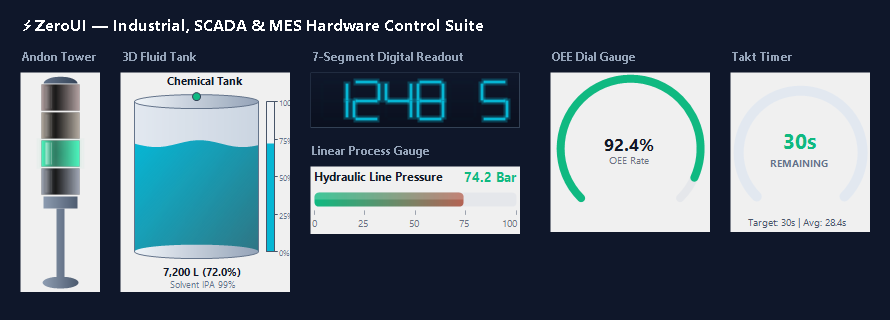
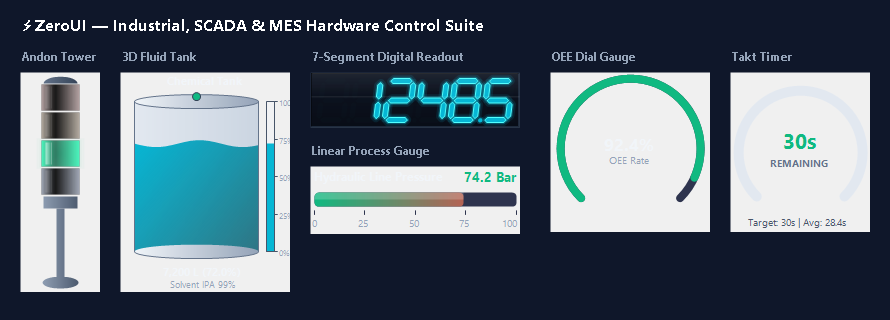
docs: capture high-resolution SCADA closed-loop simulation screenshots and enrich README showcase

diff --git a/src/ZeroUI.Samples.BenchmarkDemo/Program.cs b/src/ZeroUI.Samples.BenchmarkDemo/Program.cs
@@ -423,53 +423,53 @@ namespace ZeroUI.Samples.BenchmarkDemo
                     SaveFormBitmap(form, Path.Combine(outputDir, "01_zerogrid_benchmark.png"));
                     Console.WriteLine("   [OK] Captured 01_zerogrid_benchmark.png");
 
-                    // Tab 2: Components Showcase
-                    form.SelectTabByIndex(2);
-                    Application.DoEvents();
-                    System.Threading.Thread.Sleep(200);
-                    SaveFormBitmap(form, Path.Combine(outputDir, "02_components_showcase.png"));
-                    Console.WriteLine("   [OK] Captured 02_components_showcase.png");
-
-                    // Tab 3: MES Production Dashboard
-                    form.SelectTabByIndex(3);
+                    // Tab 1: MES Production Dashboard
+                    form.SelectTabByIndex(1);
                     Application.DoEvents();
                     System.Threading.Thread.Sleep(200);
                     SaveFormBitmap(form, Path.Combine(outputDir, "03_mes_production_dashboard.png"));
                     Console.WriteLine("   [OK] Captured 03_mes_production_dashboard.png");
 
-                    // Tab 4: SCADA & Smart Factory Hub
-                    form.SelectTabByIndex(4);
-                    Application.DoEvents();
-                    System.Threading.Thread.Sleep(200);
-                    SaveFormBitmap(form, Path.Combine(outputDir, "04_scada_smart_factory.png"));
-                    Console.WriteLine("   [OK] Captured 04_scada_smart_factory.png");
-
-                    // Tab 5: WMS Center
-                    form.SelectTabByIndex(5);
+                    // Tab 2: WMS Center & Warehouse Racks
+                    form.SelectTabByIndex(2);
                     Application.DoEvents();
                     System.Threading.Thread.Sleep(200);
                     SaveFormBitmap(form, Path.Combine(outputDir, "05_wms_warehouse_rack.png"));
                     Console.WriteLine("   [OK] Captured 05_wms_warehouse_rack.png");
 
-                    // Tab 6: Advanced Enterprise Suite (TreeList & Heatmap)
-                    form.SelectTabByIndex(6);
+                    // Tab 3: SCADA & Smart Factory Hub
+                    form.SelectTabByIndex(3);
                     Application.DoEvents();
                     System.Threading.Thread.Sleep(200);
-                    SaveFormBitmap(form, Path.Combine(outputDir, "06_advanced_treelist_heatmap.png"));
-                    Console.WriteLine("   [OK] Captured 06_advanced_treelist_heatmap.png");
+                    SaveFormBitmap(form, Path.Combine(outputDir, "04_scada_smart_factory.png"));
+                    Console.WriteLine("   [OK] Captured 04_scada_smart_factory.png");
 
-                    // Tab 7: Analytics & Business Charts
-                    form.SelectTabByIndex(7);
+                    // Tab 4: SCADA Process Synoptic & Closed-Loop Simulation
+                    form.SelectTabByIndex(4);
+                    Application.DoEvents();
+                    System.Threading.Thread.Sleep(400);
+                    SaveFormBitmap(form, Path.Combine(outputDir, "12_scada_closed_loop_simulation.png"));
+                    Console.WriteLine("   [OK] Captured 12_scada_closed_loop_simulation.png");
+
+                    // Tab 5: Analytics & Business Charts
+                    form.SelectTabByIndex(5);
                     Application.DoEvents();
                     System.Threading.Thread.Sleep(200);
                     SaveFormBitmap(form, Path.Combine(outputDir, "10_business_charts_dashboard.png"));
                     Console.WriteLine("   [OK] Captured 10_business_charts_dashboard.png");
 
-                    // Obsidian Dark Theme SCADA
+                    // Tab 6: UI Component Catalog
+                    form.SelectTabByIndex(6);
+                    Application.DoEvents();
+                    System.Threading.Thread.Sleep(200);
+                    SaveFormBitmap(form, Path.Combine(outputDir, "02_components_showcase.png"));
+                    Console.WriteLine("   [OK] Captured 02_components_showcase.png");
+
+                    // Obsidian Dark Theme SCADA Closed Loop
                     form.ToggleThemePublic();
                     form.SelectTabByIndex(4); // SCADA looks striking in Dark Mode
                     Application.DoEvents();
-                    System.Threading.Thread.Sleep(300);
+                    System.Threading.Thread.Sleep(400);
                     SaveFormBitmap(form, Path.Combine(outputDir, "08_dark_theme_scada.png"));
                     Console.WriteLine("   [OK] Captured 08_dark_theme_scada.png");
 
@@ -488,6 +488,10 @@ namespace ZeroUI.Samples.BenchmarkDemo
                 // 4. Capture Business Analytics & Chart Suite Composite
                 CaptureChartsHeroShowcase(Path.Combine(outputDir, "11_charts_hero_showcase.png"));
                 Console.WriteLine("   [OK] Captured 11_charts_hero_showcase.png");
+
+                // 5. Capture SCADA Field Actuators, Sensors & HMI Safety Controls Composite
+                CaptureScadaIndustrialActuatorsComposite(Path.Combine(outputDir, "13_scada_actuators_composite.png"));
+                Console.WriteLine("   [OK] Captured 13_scada_actuators_composite.png");
 
                 Console.WriteLine("\n🎉 ALL README SCREENSHOTS CAPTURED SUCCESSFULLY!");
             }
@@ -745,6 +749,171 @@ namespace ZeroUI.Samples.BenchmarkDemo
                     g.DrawImage(bmp, 760, 72);
                 }
                 splineChart.Dispose();
+            }
+
+            compBmp.Save(path, System.Drawing.Imaging.ImageFormat.Png);
+        }
+
+        private static void CaptureScadaIndustrialActuatorsComposite(string path)
+        {
+            int compW = 1100;
+            int compH = 430;
+
+            using var compBmp = new Bitmap(compW, compH);
+            using (var g = Graphics.FromImage(compBmp))
+            {
+                g.Clear(Color.FromArgb(15, 23, 42)); // Industrial Slate 900
+                g.SmoothingMode = System.Drawing.Drawing2D.SmoothingMode.AntiAlias;
+
+                using var titleFont = new Font("Segoe UI", 12f, FontStyle.Bold);
+                using var capFont = new Font("Segoe UI", 9f, FontStyle.Bold);
+                using var titleBrush = new SolidBrush(Color.White);
+                using var capBrush = new SolidBrush(Color.FromArgb(148, 163, 184));
+
+                g.DrawString("⚡ ZeroUI — Industrial SCADA Field Actuators, Smart Sensors & HMI Safety Controls", titleFont, titleBrush, 20, 14);
+
+                // Row 1: Pneumatic Cylinder, Conveyor Belt, Sensor, Scoreboard, Interlock, Command Button
+                // 1. ZeroPneumaticCylinder
+                var cyl = new ZeroPneumaticCylinder { Size = new Size(190, 80), ExtensionPercent = 70.0, TagLabel = "CYL-301 DOSING", State = CylinderState.Moving };
+                cyl.CreateControl();
+                using (var bmp = new Bitmap(190, 80))
+                {
+                    cyl.DrawToBitmap(bmp, new Rectangle(0, 0, 190, 80));
+                    g.DrawString("Pneumatic Cylinder", capFont, capBrush, 20, 48);
+                    g.DrawImage(bmp, 20, 72);
+                }
+                cyl.Dispose();
+
+                // 2. ZeroConveyorBelt
+                var cv = new ZeroConveyorBelt { Size = new Size(220, 85), SpeedMpm = 28.0, TagLabel = "CV-401 PACK LINE", State = ConveyorState.Running };
+                cv.CreateControl();
+                using (var bmp = new Bitmap(220, 85))
+                {
+                    cv.DrawToBitmap(bmp, new Rectangle(0, 0, 220, 85));
+                    g.DrawString("Conveyor Belt", capFont, capBrush, 230, 48);
+                    g.DrawImage(bmp, 230, 70);
+                }
+                cv.Dispose();
+
+                // 3. ZeroIndustrialSensor
+                var sensor = new ZeroIndustrialSensor { Size = new Size(75, 75), TagLabel = "PE-401", SensorType = SensorType.Photoelectric, State = SensorState.Active };
+                sensor.CreateControl();
+                using (var bmp = new Bitmap(75, 75))
+                {
+                    sensor.DrawToBitmap(bmp, new Rectangle(0, 0, 75, 75));
+                    g.DrawString("Optical Sensor", capFont, capBrush, 470, 48);
+                    g.DrawImage(bmp, 470, 72);
+                }
+                sensor.Dispose();
+
+                // 4. ZeroProductionCounter
+                var counter = new ZeroProductionCounter { Size = new Size(260, 95), Title = "SHIFT PRODUCTION TARGET", Plan = 5000, Actual = 4320, NG = 14 };
+                counter.CreateControl();
+                using (var bmp = new Bitmap(260, 95))
+                {
+                    counter.DrawToBitmap(bmp, new Rectangle(0, 0, 260, 95));
+                    g.DrawString("Production Counter", capFont, capBrush, 565, 48);
+                    g.DrawImage(bmp, 565, 68);
+                }
+                counter.Dispose();
+
+                // 5. ZeroInterlockIndicator & ZeroCommandButton
+                var interlock = new ZeroInterlockIndicator { Size = new Size(185, 42), TagLabel = "SAFETY PERMISSIVE" };
+                interlock.CreateControl();
+                using (var bmp = new Bitmap(185, 42))
+                {
+                    interlock.DrawToBitmap(bmp, new Rectangle(0, 0, 185, 42));
+                    g.DrawString("Safety Permissive", capFont, capBrush, 850, 48);
+                    g.DrawImage(bmp, 850, 68);
+                }
+                interlock.Dispose();
+
+                var cmdBtn = new ZeroCommandButton { Size = new Size(185, 42), Action = CommandButtonAction.Start, CommandText = "START BATCH", PressAndHoldSeconds = 0.5f };
+                cmdBtn.CreateControl();
+                using (var bmp = new Bitmap(185, 42))
+                {
+                    cmdBtn.DrawToBitmap(bmp, new Rectangle(0, 0, 185, 42));
+                    g.DrawImage(bmp, 850, 116);
+                }
+                cmdBtn.Dispose();
+
+                // Row 2: Motor, Pump, Valve, Heater, Fan, Digital Indicator, Gauge
+                // 6. ZeroIndustrialMotor
+                var motor = new ZeroIndustrialMotor { Size = new Size(125, 76), TagLabel = "M-201 AGITATOR", SpeedRpm = 1450.0, State = ZeroMotorState.Running };
+                motor.CreateControl();
+                using (var bmp = new Bitmap(125, 76))
+                {
+                    motor.DrawToBitmap(bmp, new Rectangle(0, 0, 125, 76));
+                    g.DrawString("Induction Motor", capFont, capBrush, 20, 180);
+                    g.DrawImage(bmp, 20, 204);
+                }
+                motor.Dispose();
+
+                // 7. ZeroIndustrialPump
+                var pump = new ZeroIndustrialPump { Size = new Size(95, 95), TagLabel = "P-101 FEED", SpeedRpm = 2950.0, State = ZeroPumpState.Running };
+                pump.CreateControl();
+                using (var bmp = new Bitmap(95, 95))
+                {
+                    pump.DrawToBitmap(bmp, new Rectangle(0, 0, 95, 95));
+                    g.DrawString("Centrifugal Pump", capFont, capBrush, 165, 180);
+                    g.DrawImage(bmp, 165, 204);
+                }
+                pump.Dispose();
+
+                // 8. ZeroIndustrialValve
+                var valve = new ZeroIndustrialValve { Size = new Size(80, 85), TagLabel = "FCV-101", ValveType = ZeroValveType.ControlValve, State = ZeroValveState.Open, PositionPercent = 85.0 };
+                valve.CreateControl();
+                using (var bmp = new Bitmap(80, 85))
+                {
+                    valve.DrawToBitmap(bmp, new Rectangle(0, 0, 80, 85));
+                    g.DrawString("Control Valve", capFont, capBrush, 280, 180);
+                    g.DrawImage(bmp, 280, 204);
+                }
+                valve.Dispose();
+
+                // 9. ZeroIndustrialHeater
+                var heater = new ZeroIndustrialHeater { Size = new Size(130, 80), TagLabel = "HT-201 HEATER", TemperatureC = 178.5, SetpointC = 185.0, State = ZeroHeaterState.Heating };
+                heater.CreateControl();
+                using (var bmp = new Bitmap(130, 80))
+                {
+                    heater.DrawToBitmap(bmp, new Rectangle(0, 0, 130, 80));
+                    g.DrawString("Process Heater", capFont, capBrush, 380, 180);
+                    g.DrawImage(bmp, 380, 204);
+                }
+                heater.Dispose();
+
+                // 10. ZeroIndustrialFan
+                var fan = new ZeroIndustrialFan { Size = new Size(130, 80), TagLabel = "FN-201 COOLING", SpeedRpm = 1600.0, State = ZeroFanState.Running };
+                fan.CreateControl();
+                using (var bmp = new Bitmap(130, 80))
+                {
+                    fan.DrawToBitmap(bmp, new Rectangle(0, 0, 130, 80));
+                    g.DrawString("Ventilation Fan", capFont, capBrush, 530, 180);
+                    g.DrawImage(bmp, 530, 204);
+                }
+                fan.Dispose();
+
+                // 11. ZeroDigitalIndicator
+                var digital = new ZeroDigitalIndicator { Size = new Size(155, 95), TagLabel = "REACTOR CORE", Unit = "°C", Value = 178.5, Format = "0.0" };
+                digital.CreateControl();
+                using (var bmp = new Bitmap(155, 95))
+                {
+                    digital.DrawToBitmap(bmp, new Rectangle(0, 0, 155, 95));
+                    g.DrawString("Digital Readout", capFont, capBrush, 680, 180);
+                    g.DrawImage(bmp, 680, 204);
+                }
+                digital.Dispose();
+
+                // 12. ZeroGauge
+                var dial = new ZeroGauge { Size = new Size(150, 130), Title = "VESSEL PRESS", Suffix = " PSI", Value = 64.2f };
+                dial.CreateControl();
+                using (var bmp = new Bitmap(150, 130))
+                {
+                    dial.DrawToBitmap(bmp, new Rectangle(0, 0, 150, 130));
+                    g.DrawString("Pressure Gauge", capFont, capBrush, 855, 180);
+                    g.DrawImage(bmp, 855, 204);
+                }
+                dial.Dispose();
             }
 
             compBmp.Save(path, System.Drawing.Imaging.ImageFormat.Png);

diff --git a/src/ZeroUI.WinForms/Industrial/ZeroAlarmGrid.cs b/src/ZeroUI.WinForms/Industrial/ZeroAlarmGrid.cs
@@ -63,6 +63,7 @@ namespace ZeroUI.WinForms.Industrial
                 ControlStyles.AllPaintingInWmPaint |
                 ControlStyles.OptimizedDoubleBuffer |
                 ControlStyles.ResizeRedraw |
+                ControlStyles.SupportsTransparentBackColor |
                 ControlStyles.Selectable, true);
 
             Size = new Size(600, 260);

diff --git a/README.md b/README.md
@@ -14,6 +14,9 @@
 ### ⚡ ZeroGrid 1,000,000 Rows Big Data Virtual Engine & Telemetry HUD
 ![ZeroGrid Performance Benchmark](docs/images/01_zerogrid_benchmark.png)
 
+### 🏭 Integrated Closed-Loop SCADA Process & P&ID Synoptic Workcell
+![SCADA Closed-Loop Batch Process Simulation](docs/images/12_scada_closed_loop_simulation.png)
+
 ---
 
 ## 2. Core Vision & Architectural Principles
@@ -124,15 +127,20 @@ ZeroUI provides an end-to-end suite of modern enterprise and industrial controls
 
 ### 🏭 Industrial, SCADA & MES Subsystem (`ZeroUI.WinForms.Industrial`)
 
-#### Hardware SCADA & Industrial Indicators
-![Industrial Hero Showcase](docs/images/09_industrial_hero_showcase.png)
+#### 🔄 Integrated Closed-Loop SCADA Batch Process & Packaging Line
+![SCADA Closed-Loop Batch Process Simulation](docs/images/12_scada_closed_loop_simulation.png)
 
-* **`ZeroLedTower`**: Industrial Andon Signal Tower Light control with Red, Amber, Green, and Blue lamp segments. Features 3D cylindrical glass reflection, mounting pole/base, and configurable Solid, Blinking (1Hz/2Hz flash), or Off states for real-time SCADA machine status.
-* **`ZeroTank3D`**: Industrial 3D cylindrical fluid storage tank with animated sinusoidal liquid surface waves, glass sight-gauge tube, graduated level markings, and High/Low limit sensor trips.
-* **`ZeroSevenSegment`**: Industrial 7-Segment Digital LED Display for Takt time and production counters with polygon beveled segment geometry, authentic segment ghosting, custom slant angles (0° to 15°), smart blinking colon, unit badges, and customizable colors (Neon Cyan, Emerald, Amber).
-* **`ZeroLinearGauge`**: Industrial linear level, temperature, and pressure gauge with multi-zone threshold indicators (Normal, Warning, Critical), tick marks, and real-time floating value readout.
-* **`ZeroGauge`**: Anti-aliased circular progress dial for **OEE %**, Yield Rate, and equipment efficiency.
-* **`ZeroTaktTimer`**: Lean manufacturing Takt Time & Cycle Timer with circular countdown progress arc, digital remaining time readout, planned vs. actual cycle time comparison, and automatic color transitions (On-Track Green &rarr; Warning Amber &rarr; Overdue Flashing Red).
+A fully automated, 5-stage closed-loop industrial process demonstrating synchronous hardware orchestration, safety permissives, and real-time telemetry:
+1. **Chemical Inflow & Feeding:** Raw precursor delivery via `ZeroIndustrialPump` (P-101 at 2950 RPM) and proportional control valve `ZeroIndustrialValve` (FCV-101) transferring solvent from supply tank `ZeroTank3D` (TK-101) to reactor `ZeroTank3D` (RX-201) with active `ZeroPipeFlow` subpixel pulse animation.
+2. **Thermal Reaction & Catalytic Mixing:** High-torque mixing with `ZeroIndustrialMotor` (M-201 at 1450 RPM), thermal regulation via `ZeroIndustrialHeater` (HT-201) with dynamic liquid color shifting (amber &rarr; emerald), Boyle's law pressure rise on `ZeroGauge` (PI-201), and core temperature monitoring on `ZeroDigitalIndicator` (TI-201).
+3. **Quench & Safety Permissive Verification:** Forced ventilation cooling with `ZeroIndustrialFan` (FN-201), interlock verification via `ZeroInterlockIndicator` before permitting product discharge.
+4. **Pneumatic Dosing & Dispensing:** Precision stroke extension and retraction (0–100%) with double-acting `ZeroPneumaticCylinder` (CYL-301) triggered by `ZeroIndustrialSensor` (PE-401 photoelectric container detection).
+5. **High-Speed Packaging Line & Scoreboard:** Container transport on `ZeroConveyorBelt` (CV-401 at 28 MPM), real-time tally tracking on `ZeroProductionCounter` (Plan, Actual, NG) and line efficiency on `ZeroMachineCard`.
+6. **Multi-Channel Telemetry Oscilloscope:** 60 FPS streaming on `ZeroTrendChart` plotting core temperature, vessel pressure, reactor level, and throughput velocity without garbage collection.
+
+#### Hardware SCADA & Industrial Field Actuators
+![Industrial Hero Showcase](docs/images/09_industrial_hero_showcase.png)
+![SCADA Field Actuators & Smart Sensors](docs/images/13_scada_actuators_composite.png)
 
 #### SCADA Runtime, P&ID Process & Industrial HMI Suite
 ![SCADA Smart Factory Hub](docs/images/04_scada_smart_factory.png)
